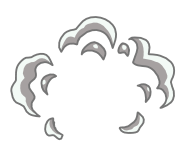
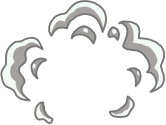
GHOST POOF, and moved the level buttons where I would want them to be in the world

Changed region(s): [[0.2711, 0.0, 0.994, 0.96], [0.0, 0.288, 0.3313, 1.0]]

diff --git a/src/model/enemy/Ghost.java b/src/model/enemy/Ghost.java
@@ -26,6 +26,7 @@ public class Ghost extends Enemy{
 	
 	private boolean beenSpooky = false;
 	private boolean isSpooky = false;
+	private int iter;
 	
 	private static Point walkDims = new Point(47,73);
 	private static Point deathDims = new Point(56,77);
@@ -36,7 +37,7 @@ public class Ghost extends Enemy{
 	private static String[] dead_ghost = new String[] {"file:images/enemies/ghost/dead_ghost_right.png", 
 											   		   "file:images/enemies/ghost/dead_ghost_left.png"};
 	
-	private final String[] poofImgs = {"file:images/explosion_01", "file:images/explosion_02"};
+	private final String[] poofImgs = {"file:images/explosion_01.png", "file:images/explosion_02.png"};
 	private Image[] poofs;
 	private long animStart = 0;
 	private AnimationTimer spook;
@@ -52,7 +53,7 @@ public class Ghost extends Enemy{
 		this.beenSpooky = false;
 		this.isSpooky = false;
 		this.poofs = new Image[] {new Image(poofImgs[0]),new Image(poofImgs[1])};
-		
+		this.iter=0;
 		spook = new AnimationTimer() {
 
 			@Override
@@ -82,6 +83,14 @@ public class Ghost extends Enemy{
 		if(this.beenSpooky) spook.stop();
 		
 		if(this.isSpooky) {
+			if(iter==0) {
+				gc.drawImage(poofs[0],loc.getX()-(imgWidth/2), loc.getY()-(imgHeight/2),imgWidth,imgHeight); 
+				iter++;
+			}
+			else if(iter==1) {
+				gc.drawImage(poofs[1], loc.getX()-(imgWidth/2), loc.getY()-(imgHeight/2),imgWidth,imgHeight); 
+				iter++;
+			}
 			gc.setGlobalAlpha(0.2);
 		}
 		int dir = 0;

diff --git a/src/view/SelectorView.java b/src/view/SelectorView.java
@@ -67,14 +67,14 @@ public class SelectorView extends StackPane implements Observer{
 		grid.setHgap(10);
 		Label copyright = new Label ("  copyright The Team\n");
 		Button easy = new Button("Easy");
-		easy.setMinWidth(120);
+		easy.setMinWidth(40);
 		Button medium = new Button("Medium");
-		medium.setMinWidth(120);
+		medium.setMinWidth(60);
 		Button hard = new Button("Hard");
-		hard.setMinWidth(120);
-		grid.add(easy, 11, 18);
-		grid.add(medium, 11, 19);
-		grid.add(hard, 11, 20);
+		hard.setMinWidth(40);
+		grid.add(easy, 19, 19);
+		grid.add(medium, 7, 36);
+		grid.add(hard, 2, 6);
 		grid.add(copyright, 0, 39);
 		this.getChildren().add(grid);
 		this.setId("pane");
